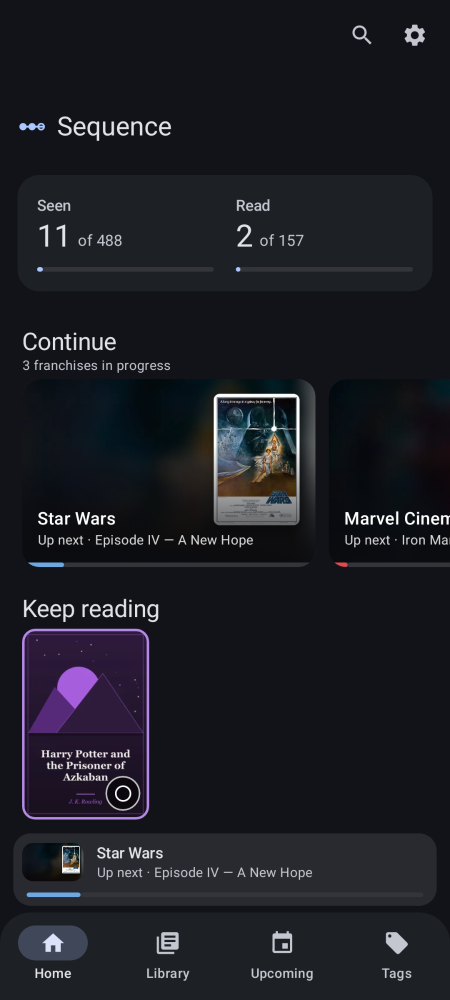
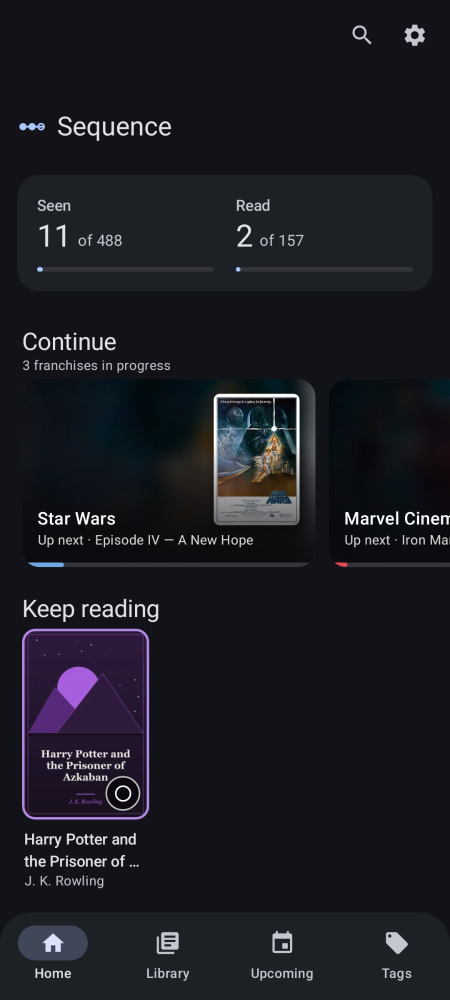
Sequence 2.3: remove the mini continue bar

Changed region(s): [[0.0311, 0.837, 0.9333, 0.899]]

diff --git a/app/src/main/java/com/sequence/watchorder/App.kt b/app/src/main/java/com/sequence/watchorder/App.kt
@@ -1,28 +1,11 @@
 package com.sequence.watchorder
 
 import androidx.activity.compose.BackHandler
-import androidx.compose.animation.AnimatedContent
-import androidx.compose.animation.AnimatedVisibility
-import androidx.compose.animation.core.tween
-import androidx.compose.animation.expandVertically
-import androidx.compose.animation.fadeIn
-import androidx.compose.animation.fadeOut
-import androidx.compose.animation.shrinkVertically
-import androidx.compose.animation.slideInVertically
-import androidx.compose.animation.slideOutVertically
-import androidx.compose.animation.togetherWith
-import androidx.compose.foundation.interaction.MutableInteractionSource
 import androidx.compose.foundation.isSystemInDarkTheme
-import androidx.compose.foundation.layout.Arrangement
 import androidx.compose.foundation.layout.Box
-import androidx.compose.foundation.layout.Column
-import androidx.compose.foundation.layout.Row
-import androidx.compose.foundation.layout.aspectRatio
 import androidx.compose.foundation.layout.fillMaxSize
-import androidx.compose.foundation.layout.fillMaxWidth
 import androidx.compose.foundation.layout.padding
 import androidx.compose.foundation.layout.size
-import androidx.compose.foundation.layout.width
 import androidx.compose.foundation.shape.RoundedCornerShape
 import androidx.compose.material3.Icon
 import androidx.compose.material3.MaterialTheme
@@ -38,38 +21,27 @@ import androidx.compose.material3.Surface
 import androidx.compose.material3.Text
 import androidx.compose.runtime.Composable
 import androidx.compose.runtime.LaunchedEffect
-import androidx.compose.runtime.getValue
 import androidx.compose.runtime.remember
 import androidx.compose.runtime.saveable.SaveableStateHolder
 import androidx.compose.runtime.saveable.rememberSaveableStateHolder
 import androidx.compose.ui.Alignment
 import androidx.compose.ui.Modifier
 import androidx.compose.ui.draw.clip
-import androidx.compose.ui.graphics.Color
-import androidx.compose.ui.text.style.TextOverflow
 import androidx.compose.ui.unit.dp
-import com.sequence.watchorder.data.ContinueCard
-import com.sequence.watchorder.data.Logic
 import com.sequence.watchorder.data.ThemeMode
-import com.sequence.watchorder.ui.ArtImage
-import com.sequence.watchorder.ui.ArtKind
-import com.sequence.watchorder.ui.Haptics
-import com.sequence.watchorder.ui.ProgressStrip
-import com.sequence.watchorder.ui.SeqIcons
-import com.sequence.watchorder.ui.SeqSnackbar
-import com.sequence.watchorder.ui.SequenceTheme
 import com.sequence.watchorder.ui.DetailScreen
+import com.sequence.watchorder.ui.Haptics
 import com.sequence.watchorder.ui.HomeScreen
 import com.sequence.watchorder.ui.LibraryScreen
 import com.sequence.watchorder.ui.Motion
 import com.sequence.watchorder.ui.SectionAxis
 import com.sequence.watchorder.ui.SectionSwitcher
-import com.sequence.watchorder.ui.SeqMotion
+import com.sequence.watchorder.ui.SeqIcons
+import com.sequence.watchorder.ui.SeqSnackbar
+import com.sequence.watchorder.ui.SequenceTheme
 import com.sequence.watchorder.ui.SettingsScreen
 import com.sequence.watchorder.ui.TagsScreen
 import com.sequence.watchorder.ui.UpcomingScreen
-import com.sequence.watchorder.ui.pressScale
-import com.sequence.watchorder.ui.toPalette
 
 @Composable
 fun SequenceApp(vm: MainViewModel) {
@@ -171,14 +143,10 @@ private fun MainTabs(
     snackbarHostState: SnackbarHostState,
     stateHolder: SaveableStateHolder,
 ) {
-    val miniCard = remember(vm.progress) {
-        Logic.continueList(vm.catalog, vm.progress, vm.today(), 1).firstOrNull()
-    }
-
     Scaffold(
         containerColor = MaterialTheme.colorScheme.background,
         contentWindowInsets = androidx.compose.foundation.layout.WindowInsets(0, 0, 0, 0),
-        bottomBar = { AppBottomBar(vm, miniCard) },
+        bottomBar = { AppNavigationBar(vm) },
         snackbarHost = {
             SnackbarHost(
                 hostState = snackbarHostState,
@@ -191,8 +159,8 @@ private fun MainTabs(
                 .fillMaxSize()
                 .padding(bottom = padding.calculateBottomPadding()),
         ) {
-            // Only the page moves. The strip and the navigation bar live outside the switcher, so
-            // they never re-create, flash or lose the selected state mid-transition.
+            // Only the page moves. The navigation bar lives outside the switcher, so it never
+            // re-creates, flashes or loses the selected state mid-transition.
             SectionSwitcher(
                 target = vm.tab,
                 modifier = Modifier.fillMaxSize(),
@@ -209,30 +177,6 @@ private fun MainTabs(
                 }
             }
         }
-    }
-}
-
-/** Everything pinned under the content: the continue strip, then the navigation bar. */
-@Composable
-internal fun AppBottomBar(vm: MainViewModel, miniCard: ContinueCard?) {
-    Column {
-        if (Motion.enabled) {
-            AnimatedVisibility(
-                visible = miniCard != null,
-                enter = fadeIn(tween(SeqMotion.SHORT_MS)) +
-                    expandVertically(tween(SeqMotion.STANDARD_MS), expandFrom = Alignment.Bottom),
-                exit = fadeOut(tween(SeqMotion.PRESS_MS)) +
-                    shrinkVertically(tween(SeqMotion.STANDARD_MS), shrinkTowards = Alignment.Bottom),
-            ) {
-                if (miniCard != null) {
-                    MiniBar(vm, miniCard)
-                }
-            }
-        } else if (miniCard != null) {
-            // Settled state: a snapshot has no time to run an enter transition.
-            MiniBar(vm, miniCard)
-        }
-        AppNavigationBar(vm)
     }
 }
 
@@ -269,104 +213,6 @@ internal fun AppNavigationBar(vm: MainViewModel) {
                     unselectedIconColor = MaterialTheme.colorScheme.onSurfaceVariant,
                     unselectedTextColor = MaterialTheme.colorScheme.onSurfaceVariant,
                 ),
-            )
-        }
-    }
-}
-
-/** The "keep going" strip that sits above the navigation bar. */
-@Composable
-private fun MiniBar(vm: MainViewModel, card: ContinueCard) {
-    val accent = vm.catalog.accent(card.franchise.id).toPalette()
-    val title = card.next?.title ?: card.nextBook?.title ?: "All caught up"
-    val kicker = when {
-        card.next != null -> "Up next"
-        card.nextBook != null -> "Read next"
-        else -> "Finished"
-    }
-    val interaction = remember { MutableInteractionSource() }
-
-    Surface(
-        onClick = { vm.openFranchise(card.franchise.id) },
-        interactionSource = interaction,
-        modifier = Modifier
-            .fillMaxWidth()
-            .padding(horizontal = 12.dp, vertical = 6.dp)
-            .pressScale(interaction, pressedScale = 0.985f),
-        shape = RoundedCornerShape(16.dp),
-        color = MaterialTheme.colorScheme.surfaceContainerHigh,
-        tonalElevation = 3.dp,
-    ) {
-        Column {
-            // Sliding the strip's contents, rather than snapping them, when the next title changes.
-            if (Motion.enabled) {
-                AnimatedContent(
-                    targetState = card.franchise.id,
-                    transitionSpec = {
-                        (
-                            slideInVertically(tween(SeqMotion.STANDARD_MS)) { it / 3 } +
-                                fadeIn(tween(SeqMotion.STANDARD_MS))
-                            ) togetherWith (
-                            slideOutVertically(tween(SeqMotion.SHORT_MS)) { -it / 3 } +
-                                fadeOut(tween(SeqMotion.PRESS_MS))
-                            )
-                    },
-                    label = "miniBar",
-                ) { shownId ->
-                    MiniBarRow(card, shownId, kicker, title)
-                }
-            } else {
-                // Reduce motion: the new title replaces the old one without a slide.
-                MiniBarRow(card, card.franchise.id, kicker, title)
-            }
-            ProgressStrip(
-                pct = card.seen.pct,
-                color = accent.accent,
-                modifier = Modifier.padding(horizontal = 12.dp, vertical = 0.dp),
-            )
-            Box(Modifier.padding(bottom = 8.dp))
-        }
-    }
-}
-
-/** One line of the mini bar: poster, franchise and what is next. */
-@Composable
-private fun MiniBarRow(
-    card: ContinueCard,
-    shownId: String,
-    kicker: String,
-    title: String,
-) {
-    Row(
-        modifier = Modifier
-            .fillMaxWidth()
-            .padding(start = 8.dp, end = 12.dp, top = 8.dp, bottom = 10.dp),
-        verticalAlignment = Alignment.CenterVertically,
-        horizontalArrangement = Arrangement.spacedBy(12.dp),
-    ) {
-        Box(
-            Modifier
-                .width(56.dp)
-                .aspectRatio(16f / 10f)
-                .clip(RoundedCornerShape(10.dp)),
-        ) {
-            // Keeps the outgoing poster with the outgoing text during the slide.
-            ArtImage(ArtKind.POSTER, shownId, Modifier.fillMaxSize())
-        }
-        Column(Modifier.weight(1f)) {
-            Text(
-                text = card.franchise.name,
-                style = MaterialTheme.typography.titleSmall,
-                color = MaterialTheme.colorScheme.onSurface,
-                maxLines = 1,
-                overflow = TextOverflow.Ellipsis,
-            )
-            Text(
-                text = "$kicker · $title",
-                style = MaterialTheme.typography.bodySmall,
-                color = MaterialTheme.colorScheme.onSurfaceVariant,
-                maxLines = 1,
-                overflow = TextOverflow.Ellipsis,
             )
         }
     }

diff --git a/app/src/test/java/com/sequence/watchorder/ScreenshotTest.kt b/app/src/test/java/com/sequence/watchorder/ScreenshotTest.kt
@@ -14,7 +14,6 @@ import app.cash.paparazzi.DeviceConfig
 import app.cash.paparazzi.Paparazzi
 import com.sequence.watchorder.data.Catalog
 import com.sequence.watchorder.data.LibView
-import com.sequence.watchorder.data.Logic
 import com.sequence.watchorder.data.OrderMode
 import com.sequence.watchorder.data.ProgressState
 import com.sequence.watchorder.ui.ArtKind
@@ -135,11 +134,10 @@ class ScreenshotTest {
     @Test
     fun shell() {
         val model = vm()
-        val mini = Logic.continueList(catalog, model.progress, model.today(), 1).firstOrNull()
         shot("shell") {
             Column(Modifier.fillMaxSize()) {
                 Box(Modifier.weight(1f)) { HomeScreen(model) }
-                AppBottomBar(model, mini)
+                AppNavigationBar(model)
             }
         }
     }

diff --git a/README.md b/README.md
@@ -1,4 +1,4 @@
-# Sequence 2.2 — 49 franchises, films and games
+# Sequence 2.3 — 49 franchises, films and games
 
 A native Kotlin / Jetpack Compose rebuild of the original WebView-based **Sequence** watch-order app.
 No WebView, no JavaScript bridge, no network permission. The catalogue and all artwork are
@@ -13,10 +13,10 @@ sheets, segmented buttons, swipe-to-mark-seen with haptics, and edge-to-edge ins
 
 - `Sequence-2.0.apk` — signed release build (`com.sequence.watchorder`, versionCode 220,
   versionName `2.0`), the latest published release.
-- `Sequence-2.2.apk` — local build of the current source (versionCode 240, versionName `2.2`); it is
+- `Sequence-2.3.apk` — local build of the current source (versionCode 250, versionName `2.3`); it is
   not published yet.
-- `Sequence-2.1.apk` — local build of the previous catalogue pass (versionCode 230, versionName `2.1`);
-  it is not published either.
+- `Sequence-2.2.apk` — local build of the previous Home and swipe pass (versionCode 240,
+  versionName `2.2`); it is not published either.
 - Minimum Android 8.0 (API 26), targets Android 15 (API 35).
 - Rendered previews of every screen are in `screenshots/`.
 
@@ -34,6 +34,7 @@ Each change ships under a new name so builds never get confused:
 | 2.0 | `Sequence-2.0.apk` | Tags tab, inline Home search, appearance and layout settings, shared-axis transitions, a bottom bar that never re-creates, sticky upcoming months, and a reduced-motion-aware polish pass |
 | 2.1 | `Sequence-2.1.apk` | 12 more franchises (49 total): Scream, Final Destination, Saw, Rambo, The Godfather, Underworld, and six game series. Adds a Game kind, game filtering and played/playing copy. Unreleased. |
 | 2.2 | `Sequence-2.2.apk` | Cleaner Home: the continue hero and up-next rows are gone, so the totals, continue shelf, keep-reading shelf and franchise grid carry the page. Rows are marked seen by swiping right and unmarked by swiping left, replacing the seen circles. Unreleased. |
+| 2.3 | `Sequence-2.3.apk` | Removes the mini continue strip above the navigation bar, leaving the tab bar as the only pinned chrome. Unreleased. |
 
 Versions 1.7 through 1.10 were internal builds; their changes are part of 2.0.
 
@@ -46,9 +47,9 @@ APK name both follow it.
 ## What is included
 
 - **Home** — overall seen/read progress, a continue shelf, a keep-reading row, the full franchise grid
-  with a hide-finished empty state, and a media-player style mini bar above the navigation. A finished
-  franchise carries a tick badge on its poster, and a new install skips the explainer and goes straight
-  to the catalogue. Game entries say "played" instead of "watched".
+  with a hide-finished empty state, and a media-player style navigation bar. A finished franchise
+  carries a tick badge on its poster, and a new install skips the explainer and goes straight to the
+  catalogue. Game entries say "played" instead of "watched".
 - **Library** — saved and started franchises, grid/list views, progress filters, and sort by recent,
   A–Z, most left, or furthest along. Rows animate into place as the filter changes, and the bar links
   straight to settings.
@@ -106,8 +107,6 @@ placeholder tile.
   motion the rows simply settle in place.
 - **Detail hero** — the artwork trails the page as it scrolls and grows just enough to avoid exposing
   an edge; the blurb resizes smoothly when it expands.
-- **Mini bar** — slides in and out above the navigation, shrinks on press, and slides its contents
-  vertically when the next title changes.
 - **Tabs and destinations** — `AnimatedContent` slides tabs with the same 48dp / 250ms move in both
   directions and cross-fades into detail and settings; the bar itself never re-creates.
 
@@ -121,15 +120,15 @@ placeholder tile.
   for watch/books and release/story, `SwipeToDismissBox` to mark an episode seen, `ExtendedFloatingActionButton`
   for "Next up", `ModalBottomSheet` for every order/filter/detail sheet.
 - **Insets** — edge-to-edge; every screen consumes the `Scaffold` content padding so nothing hides
-  under the status bar, the navigation bar or the mini player.
-- **Haptics** — a haptic tick on every seen/read toggle.
+  under the status bar or the navigation bar.
+- **Haptics** — a haptic tick when a swipe marks a title seen or unseen, and on read toggles.
 
 ## Source layout
 
 ```
 app/src/main/java/com/sequence/watchorder/
   MainActivity.kt          edge-to-edge Compose entry point
-  App.kt                   app shell, top bars, bottom nav, mini bar, snackbar, back handling
+  App.kt                   app shell, top bars, bottom nav, snackbar, back handling
   SheetHost.kt             order/filter/more/sort/confirm and entry/work bottom sheets
   MainViewModel.kt         UI state, navigation, progress mutations and undo
   data/
@@ -140,10 +139,10 @@ app/src/main/java/com/sequence/watchorder/
   ui/
     Theme.kt               Material 3 colour schemes (dynamic + fallback) and accent palettes
     Motion.kt              shared motion: Motion.enabled, SeqMotion timings, press scale, section moves
-    Components.kt          cards, chips, rows, sheet controls, check circles
+    Components.kt          cards, chips, rows, sheet controls, swipe backgrounds
     Icons.kt               original Material SVG paths as Compose ImageVectors
     Art.kt                 bundled WebP loader with a heap-sized LruCache and fade-in
-    Feedback.kt            haptic ticks for seen and read toggles
+    Feedback.kt            haptic ticks for swipe marks and read toggles
     HomeScreen.kt
     LibraryScreen.kt
     TagsScreen.kt
@@ -217,9 +216,9 @@ $env:JAVA_HOME = "C:\Projects\Orderly\.toolchain\jdk17"
 
 Outputs:
 
-- `app/build/outputs/apk/debug/app-debug.apk` (`com.sequence.watchorder.debug`, `2.2-debug`)
+- `app/build/outputs/apk/debug/app-debug.apk` (`com.sequence.watchorder.debug`, `2.3-debug`)
 - `app/build/outputs/apk/release/app-release.apk` (signed with `sequence-release.jks`)
-- `Sequence-2.2.apk` — the current release build copied to the project root (not published)
+- `Sequence-2.3.apk` — the current release build copied to the project root (not published)
 
 ### Android Studio
 
